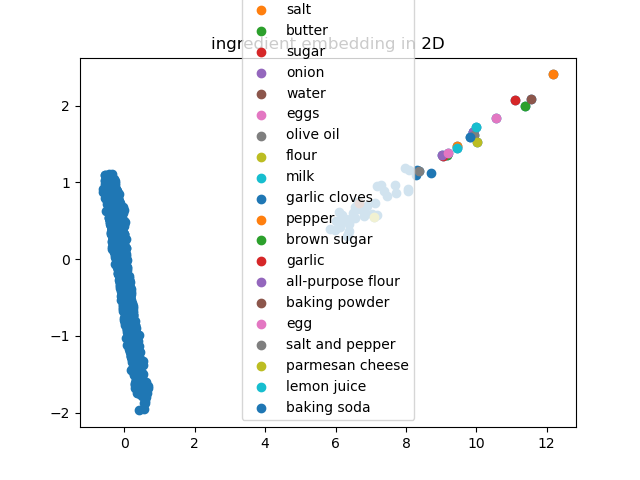
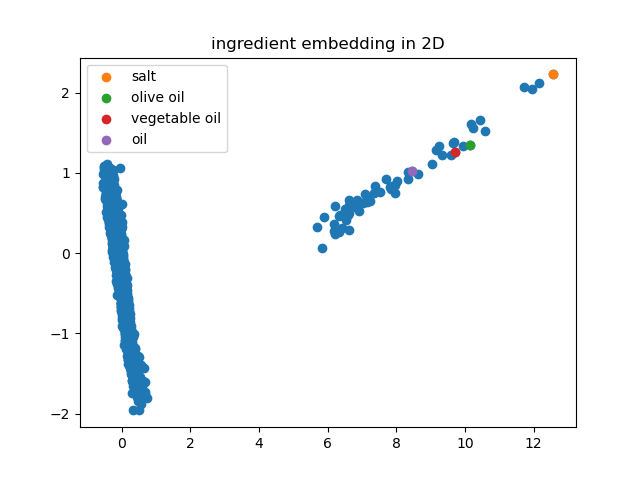
change display picture

diff --git a/src/food_connection.html b/src/food_connection.html
@@ -1,0 +1,123 @@
+<html>
+<head>
+<link rel="stylesheet" href="https://cdnjs.cloudflare.com/ajax/libs/vis/4.16.1/vis.css" type="text/css" />
+<script type="text/javascript" src="https://cdnjs.cloudflare.com/ajax/libs/vis/4.16.1/vis-network.min.js"> </script>
+<center>
+<h1></h1>
+</center>
+
+<!-- <link rel="stylesheet" href="../node_modules/vis/dist/vis.min.css" type="text/css" />
+<script type="text/javascript" src="../node_modules/vis/dist/vis.js"> </script>-->
+
+<style type="text/css">
+
+        #mynetwork {
+            width: 1200px;
+            height: 800px;
+            background-color: #ffffff;
+            border: 1px solid lightgray;
+            position: relative;
+            float: left;
+        }
+
+        
+
+        
+        #config {
+            float: left;
+            width: 400px;
+            height: 600px;
+        }
+        
+
+        
+</style>
+
+</head>
+
+<body>
+<div id = "mynetwork"></div>
+
+
+<div id = "config"></div>
+
+<script type="text/javascript">
+
+    // initialize global variables.
+    var edges;
+    var nodes;
+    var network; 
+    var container;
+    var options, data;
+
+    
+    // This method is responsible for drawing the graph, returns the drawn network
+    function drawGraph() {
+        var container = document.getElementById('mynetwork');
+        
+        
+
+        // parsing and collecting nodes and edges from the python
+        nodes = new vis.DataSet([{"id": 0, "label": "salt", "shape": "dot"}, {"id": 1, "label": "butter", "shape": "dot"}, {"id": 2, "label": "sugar", "shape": "dot"}, {"id": 3, "label": "onion", "shape": "dot"}, {"id": 4, "label": "water", "shape": "dot"}, {"id": 5, "label": "eggs", "shape": "dot"}, {"id": 6, "label": "olive oil", "shape": "dot"}, {"id": 7, "label": "flour", "shape": "dot"}, {"id": 8, "label": "milk", "shape": "dot"}, {"id": 9, "label": "garlic cloves", "shape": "dot"}, {"id": 10, "label": "pepper", "shape": "dot"}, {"id": 11, "label": "brown sugar", "shape": "dot"}, {"id": 12, "label": "garlic", "shape": "dot"}, {"id": 13, "label": "all-purpose flour", "shape": "dot"}, {"id": 14, "label": "baking powder", "shape": "dot"}, {"id": 15, "label": "egg", "shape": "dot"}, {"id": 16, "label": "salt and pepper", "shape": "dot"}, {"id": 17, "label": "parmesan cheese", "shape": "dot"}, {"id": 18, "label": "lemon juice", "shape": "dot"}, {"id": 19, "label": "baking soda", "shape": "dot"}, {"id": 20, "label": "vegetable oil", "shape": "dot"}, {"id": 21, "label": "vanilla", "shape": "dot"}, {"id": 22, "label": "black pepper", "shape": "dot"}, {"id": 23, "label": "cinnamon", "shape": "dot"}, {"id": 24, "label": "tomatoes", "shape": "dot"}, {"id": 25, "label": "sour cream", "shape": "dot"}, {"id": 26, "label": "garlic powder", "shape": "dot"}, {"id": 27, "label": "vanilla extract", "shape": "dot"}, {"id": 28, "label": "oil", "shape": "dot"}, {"id": 29, "label": "honey", "shape": "dot"}, {"id": 30, "label": "onions", "shape": "dot"}, {"id": 31, "label": "cream cheese", "shape": "dot"}, {"id": 32, "label": "garlic clove", "shape": "dot"}, {"id": 33, "label": "celery", "shape": "dot"}, {"id": 34, "label": "cheddar cheese", "shape": "dot"}, {"id": 35, "label": "unsalted butter", "shape": "dot"}, {"id": 36, "label": "soy sauce", "shape": "dot"}, {"id": 37, "label": "mayonnaise", "shape": "dot"}, {"id": 38, "label": "paprika", "shape": "dot"}, {"id": 39, "label": "chicken broth", "shape": "dot"}, {"id": 40, "label": "worcestershire sauce", "shape": "dot"}, {"id": 41, "label": "extra virgin olive oil", "shape": "dot"}, {"id": 42, "label": "fresh parsley", "shape": "dot"}, {"id": 43, "label": "cornstarch", "shape": "dot"}, {"id": 45, "label": "carrots", "shape": "dot"}, {"id": 47, "label": "chili powder", "shape": "dot"}, {"id": 49, "label": "ground cinnamon", "shape": "dot"}, {"id": 50, "label": "carrot", "shape": "dot"}, {"id": 51, "label": "potatoes", "shape": "dot"}, {"id": 52, "label": "nutmeg", "shape": "dot"}, {"id": 53, "label": "cayenne pepper", "shape": "dot"}, {"id": 54, "label": "granulated sugar", "shape": "dot"}, {"id": 55, "label": "ground cumin", "shape": "dot"}, {"id": 58, "label": "red onion", "shape": "dot"}, {"id": 59, "label": "walnuts", "shape": "dot"}, {"id": 60, "label": "pecans", "shape": "dot"}, {"id": 61, "label": "dijon mustard", "shape": "dot"}, {"id": 62, "label": "green onion", "shape": "dot"}, {"id": 63, "label": "kosher salt", "shape": "dot"}, {"id": 64, "label": "powdered sugar", "shape": "dot"}, {"id": 65, "label": "fresh lemon juice", "shape": "dot"}, {"id": 66, "label": "heavy cream", "shape": "dot"}, {"id": 68, "label": "mozzarella cheese", "shape": "dot"}, {"id": 71, "label": "zucchini", "shape": "dot"}, {"id": 72, "label": "raisins", "shape": "dot"}, {"id": 73, "label": "red bell pepper", "shape": "dot"}, {"id": 75, "label": "fresh cilantro", "shape": "dot"}, {"id": 76, "label": "chicken stock", "shape": "dot"}, {"id": 80, "label": "fresh ginger", "shape": "dot"}, {"id": 81, "label": "cumin", "shape": "dot"}, {"id": 82, "label": "oregano", "shape": "dot"}, {"id": 83, "label": "boneless skinless chicken breasts", "shape": "dot"}, {"id": 85, "label": "ketchup", "shape": "dot"}, {"id": 87, "label": "buttermilk", "shape": "dot"}, {"id": 89, "label": "cilantro", "shape": "dot"}, {"id": 91, "label": "fresh basil", "shape": "dot"}, {"id": 93, "label": "onion powder", "shape": "dot"}, {"id": 94, "label": "dried thyme", "shape": "dot"}, {"id": 95, "label": "diced tomatoes", "shape": "dot"}, {"id": 96, "label": "vinegar", "shape": "dot"}, {"id": 97, "label": "green bell pepper", "shape": "dot"}, {"id": 99, "label": "dried basil", "shape": "dot"}, {"id": 100, "label": "bay leaf", "shape": "dot"}, {"id": 102, "label": "red wine vinegar", "shape": "dot"}, {"id": 105, "label": "confectioners\u0027 sugar", "shape": "dot"}, {"id": 107, "label": "dry white wine", "shape": "dot"}, {"id": 108, "label": "salt \u0026 freshly ground black pepper", "shape": "dot"}, {"id": 110, "label": "light brown sugar", "shape": "dot"}, {"id": 112, "label": "thyme", "shape": "dot"}, {"id": 113, "label": "curry powder", "shape": "dot"}, {"id": 115, "label": "ground nutmeg", "shape": "dot"}, {"id": 117, "label": "white wine", "shape": "dot"}, {"id": 123, "label": "shortening", "shape": "dot"}, {"id": 130, "label": "egg yolks", "shape": "dot"}, {"id": 131, "label": "semi-sweet chocolate chips", "shape": "dot"}, {"id": 133, "label": "lean ground beef", "shape": "dot"}, {"id": 140, "label": "nuts", "shape": "dot"}, {"id": 145, "label": "ground cloves", "shape": "dot"}, {"id": 150, "label": "chocolate chips", "shape": "dot"}, {"id": 172, "label": "almond extract", "shape": "dot"}]);
+        edges = new vis.DataSet([{"from": 53, "to": 0, "width": 7.01571242048723}, {"from": 6, "to": 58, "width": 7.013915474810528}, {"from": 5, "to": 87, "width": 7.01301578963963}, {"from": 3, "to": 28, "width": 7.01211529430638}, {"from": 47, "to": 55, "width": 7.011213987350367}, {"from": 5, "to": 49, "width": 7.011213987350367}, {"from": 27, "to": 14, "width": 7.010311867307229}, {"from": 0, "to": 47, "width": 7.00850518208228}, {"from": 8, "to": 16, "width": 7.005789019253503}, {"from": 8, "to": 4, "width": 7.005789019253503}, {"from": 26, "to": 22, "width": 7.004881989712859}, {"from": 31, "to": 1, "width": 7.004881989712859}, {"from": 13, "to": 64, "width": 7.003065458786462}, {"from": 4, "to": 21, "width": 7.001245622069476}, {"from": 6, "to": 82, "width": 7.00033446027523}, {"from": 4, "to": 26, "width": 6.9975959829819265}, {"from": 45, "to": 3, "width": 6.9957661563048505}, {"from": 7, "to": 27, "width": 6.9957661563048505}, {"from": 6, "to": 63, "width": 6.993932975223189}, {"from": 12, "to": 24, "width": 6.9930151229329605}, {"from": 3, "to": 99, "width": 6.990256500493881}, {"from": 6, "to": 38, "width": 6.990256500493881}, {"from": 62, "to": 0, "width": 6.98933526597456}, {"from": 9, "to": 81, "width": 6.9874902470009905}, {"from": 12, "to": 2, "width": 6.9874902470009905}, {"from": 33, "to": 16, "width": 6.985641817639208}, {"from": 9, "to": 53, "width": 6.985641817639208}, {"from": 6, "to": 33, "width": 6.984716320118266}, {"from": 0, "to": 140, "width": 6.984716320118266}, {"from": 3, "to": 73, "width": 6.982862751468942}, {"from": 24, "to": 3, "width": 6.982862751468942}, {"from": 7, "to": 60, "width": 6.982862751468942}, {"from": 32, "to": 6, "width": 6.98100574072173}, {"from": 12, "to": 3, "width": 6.97914527506881}, {"from": 1, "to": 29, "width": 6.97914527506881}, {"from": 45, "to": 4, "width": 6.97914527506881}, {"from": 3, "to": 13, "width": 6.97914527506881}, {"from": 1, "to": 43, "width": 6.97914527506881}, {"from": 3, "to": 36, "width": 6.9782137426306985}, {"from": 9, "to": 38, "width": 6.97354301952014}, {"from": 52, "to": 0, "width": 6.970730078143525}, {"from": 133, "to": 3, "width": 6.970730078143525}, {"from": 23, "to": 2, "width": 6.970730078143525}, {"from": 7, "to": 17, "width": 6.96979066990159}, {"from": 6, "to": 5, "width": 6.967909201801884}, {"from": 5, "to": 18, "width": 6.966967138613983}, {"from": 2, "to": 72, "width": 6.966024187106113}, {"from": 3, "to": 20, "width": 6.962243464266207}, {"from": 1, "to": 131, "width": 6.959398512133975}, {"from": 6, "to": 76, "width": 6.959398512133975}, {"from": 0, "to": 55, "width": 6.957497370876951}, {"from": 19, "to": 49, "width": 6.954638864880987}, {"from": 85, "to": 40, "width": 6.954638864880987}, {"from": 1, "to": 32, "width": 6.952728644624869}, {"from": 14, "to": 52, "width": 6.951772164398911}, {"from": 96, "to": 0, "width": 6.950814768442584}, {"from": 2, "to": 105, "width": 6.950814768442584}, {"from": 6, "to": 107, "width": 6.949856455000773}, {"from": 4, "to": 29, "width": 6.949856455000773}, {"from": 50, "to": 33, "width": 6.948897222313312}, {"from": 9, "to": 76, "width": 6.947937068614969}, {"from": 25, "to": 1, "width": 6.942156705699469}, {"from": 34, "to": 0, "width": 6.942156705699469}, {"from": 0, "to": 115, "width": 6.939253946041508}, {"from": 7, "to": 3, "width": 6.93828448401696}, {"from": 30, "to": 16, "width": 6.934397209928558}, {"from": 45, "to": 33, "width": 6.933423025730715}, {"from": 54, "to": 21, "width": 6.933423025730715}, {"from": 13, "to": 59, "width": 6.933423025730715}, {"from": 18, "to": 2, "width": 6.932447891572509}, {"from": 19, "to": 52, "width": 6.92951677076365}, {"from": 30, "to": 1, "width": 6.92951677076365}, {"from": 31, "to": 64, "width": 6.92951677076365}, {"from": 82, "to": 0, "width": 6.92461239604856}, {"from": 93, "to": 26, "width": 6.923628628138427}, {"from": 19, "to": 64, "width": 6.923628628138427}, {"from": 2, "to": 140, "width": 6.922643891475888}, {"from": 28, "to": 2, "width": 6.921658184151129}, {"from": 9, "to": 36, "width": 6.920671504248683}, {"from": 10, "to": 8, "width": 6.920671504248683}, {"from": 3, "to": 112, "width": 6.920671504248683}, {"from": 9, "to": 75, "width": 6.918695219020472}, {"from": 15, "to": 10, "width": 6.9167150203536085}, {"from": 36, "to": 4, "width": 6.914730892718563}, {"from": 2, "to": 172, "width": 6.912742820493176}, {"from": 19, "to": 72, "width": 6.90975328164481}, {"from": 20, "to": 12, "width": 6.90975328164481}, {"from": 102, "to": 0, "width": 6.906754778648554}, {"from": 49, "to": 1, "width": 6.905753276311464}, {"from": 21, "to": 13, "width": 6.904750769961838}, {"from": 110, "to": 0, "width": 6.904750769961838}, {"from": 5, "to": 34, "width": 6.902742737158593}, {"from": 6, "to": 26, "width": 6.901737206656574}, {"from": 9, "to": 95, "width": 6.901737206656574}, {"from": 20, "to": 1, "width": 6.900730664045173}, {"from": 1, "to": 33, "width": 6.900730664045173}, {"from": 6, "to": 45, "width": 6.899723107284872}, {"from": 19, "to": 60, "width": 6.8966943316227125}, {"from": 6, "to": 7, "width": 6.8966943316227125}, {"from": 13, "to": 60, "width": 6.895682697747868}, {"from": 33, "to": 9, "width": 6.895682697747868}, {"from": 36, "to": 12, "width": 6.894670039433482}, {"from": 19, "to": 20, "width": 6.894670039433482}, {"from": 0, "to": 68, "width": 6.892641641172089}, {"from": 11, "to": 2, "width": 6.892641641172089}, {"from": 8, "to": 13, "width": 6.889591308354466}, {"from": 80, "to": 0, "width": 6.8885724595653635}, {"from": 5, "to": 140, "width": 6.8885724595653635}, {"from": 21, "to": 64, "width": 6.885509670034818}, {"from": 23, "to": 8, "width": 6.885509670034818}, {"from": 11, "to": 59, "width": 6.885509670034818}, {"from": 21, "to": 8, "width": 6.884486652042782}, {"from": 4, "to": 13, "width": 6.883462586413092}, {"from": 36, "to": 43, "width": 6.881411303642535}, {"from": 23, "to": 11, "width": 6.877296071497429}, {"from": 54, "to": 1, "width": 6.876264611890766}, {"from": 49, "to": 145, "width": 6.876264611890766}, {"from": 0, "to": 75, "width": 6.876264611890766}, {"from": 18, "to": 6, "width": 6.873163834212518}, {"from": 25, "to": 34, "width": 6.872128101338986}, {"from": 97, "to": 0, "width": 6.871091294610546}, {"from": 4, "to": 28, "width": 6.871091294610546}, {"from": 83, "to": 0, "width": 6.871091294610546}, {"from": 51, "to": 16, "width": 6.870053411798126}, {"from": 8, "to": 11, "width": 6.870053411798126}, {"from": 0, "to": 123, "width": 6.870053411798126}, {"from": 23, "to": 72, "width": 6.8690144506657065}, {"from": 133, "to": 0, "width": 6.8690144506657065}, {"from": 13, "to": 87, "width": 6.8679744089702925}, {"from": 37, "to": 18, "width": 6.866933284461882}, {"from": 3, "to": 75, "width": 6.866933284461882}, {"from": 12, "to": 42, "width": 6.8658910748834385}, {"from": 18, "to": 1, "width": 6.8658910748834385}, {"from": 1, "to": 140, "width": 6.863803391452954}, {"from": 9, "to": 91, "width": 6.862757913051401}, {"from": 9, "to": 82, "width": 6.859614903654202}, {"from": 95, "to": 0, "width": 6.858565034791365}, {"from": 5, "to": 72, "width": 6.858565034791365}, {"from": 0, "to": 93, "width": 6.85751406254539}, {"from": 94, "to": 0, "width": 6.856461984594587}, {"from": 17, "to": 1, "width": 6.853299093186078}, {"from": 0, "to": 45, "width": 6.853299093186078}, {"from": 14, "to": 60, "width": 6.851184927493743}, {"from": 32, "to": 16, "width": 6.851184927493743}, {"from": 39, "to": 10, "width": 6.851184927493743}, {"from": 6, "to": 53, "width": 6.849066282633458}, {"from": 3, "to": 71, "width": 6.848005274576363}, {"from": 1, "to": 72, "width": 6.84587987526405}, {"from": 2, "to": 130, "width": 6.84587987526405}, {"from": 4, "to": 25, "width": 6.844815479208263}, {"from": 40, "to": 10, "width": 6.843749949006225}, {"from": 21, "to": 60, "width": 6.843749949006225}, {"from": 45, "to": 9, "width": 6.839476438228843}, {"from": 0, "to": 131, "width": 6.839476438228843}, {"from": 9, "to": 40, "width": 6.838405200847344}, {"from": 2, "to": 66, "width": 6.838405200847344}, {"from": 45, "to": 10, "width": 6.835184586147301}, {"from": 0, "to": 41, "width": 6.834108738813838}, {"from": 9, "to": 41, "width": 6.831953565565855}, {"from": 3, "to": 89, "width": 6.8308742346461795}, {"from": 6, "to": 50, "width": 6.829793737512425}, {"from": 1, "to": 76, "width": 6.829793737512425}, {"from": 35, "to": 15, "width": 6.827629234502852}, {"from": 9, "to": 100, "width": 6.826545223556594}, {"from": 6, "to": 61, "width": 6.826545223556594}, {"from": 47, "to": 81, "width": 6.824373670043086}, {"from": 0, "to": 150, "width": 6.824373670043086}, {"from": 19, "to": 4, "width": 6.823286122355687}, {"from": 51, "to": 8, "width": 6.823286122355687}, {"from": 10, "to": 26, "width": 6.823286122355687}, {"from": 50, "to": 3, "width": 6.822197390620491}, {"from": 3, "to": 43, "width": 6.822197390620491}, {"from": 6, "to": 108, "width": 6.822197390620491}, {"from": 6, "to": 47, "width": 6.821107472256465}, {"from": 1, "to": 150, "width": 6.82001636467413}, {"from": 30, "to": 24, "width": 6.82001636467413}, {"from": 8, "to": 52, "width": 6.82001636467413}, {"from": 15, "to": 20, "width": 6.818924065275521}, {"from": 21, "to": 1, "width": 6.81783057145415}, {"from": 11, "to": 52, "width": 6.81783057145415}, {"from": 6, "to": 68, "width": 6.815639990074331}, {"from": 6, "to": 117, "width": 6.815639990074331}, {"from": 113, "to": 0, "width": 6.812345094177479}, {"from": 8, "to": 3, "width": 6.811244378601294}, {"from": 17, "to": 6, "width": 6.811244378601294}, {"from": 76, "to": 0, "width": 6.810142450115136}, {"from": 1, "to": 87, "width": 6.810142450115136}, {"from": 0, "to": 65, "width": 6.810142450115136}, {"from": 4, "to": 27, "width": 6.807934943699926}, {"from": 7, "to": 18, "width": 6.807934943699926}, {"from": 38, "to": 26, "width": 6.805722553416985}, {"from": 3, "to": 113, "width": 6.804614520062624}, {"from": 22, "to": 6, "width": 6.803505257608338}]);
+
+        // adding nodes and edges to the graph
+        data = {nodes: nodes, edges: edges};
+
+        var options = {
+    "configure": {
+        "enabled": true,
+        "filter": [
+            "physics"
+        ]
+    },
+    "edges": {
+        "color": {
+            "inherit": true
+        },
+        "smooth": {
+            "enabled": false,
+            "type": "continuous"
+        }
+    },
+    "interaction": {
+        "dragNodes": true,
+        "hideEdgesOnDrag": false,
+        "hideNodesOnDrag": false
+    },
+    "physics": {
+        "enabled": true,
+        "stabilization": {
+            "enabled": true,
+            "fit": true,
+            "iterations": 1000,
+            "onlyDynamicEdges": false,
+            "updateInterval": 50
+        }
+    }
+};
+        
+        
+
+        
+        // if this network requires displaying the configure window,
+        // put it in its div
+        options.configure["container"] = document.getElementById("config");
+        
+
+        network = new vis.Network(container, data, options);
+	 
+        
+
+
+        
+
+        return network;
+
+    }
+
+    drawGraph();
+
+</script>
+</body>
+</html>

diff --git a/src/draw_graph.py b/src/draw_graph.py
@@ -36,13 +36,9 @@ def get_connection_weight(i, j):
 index2food = read_dict_from_json('data/h_index2food.json')
 # all_idx_list, all_food_list = list(index2food.keys()), list(index2food.values())
 all_connection_dict = read_dict_from_json('data/sorted_all_connection_dict.json')
-print('1')
 all_connection_list = list(all_connection_dict.keys())
-print('2')
-idx_connection_list = [string2tuple(pair) for pair in all_connection_list[:100]]
-print('3')
+idx_connection_list = [string2tuple(pair) for pair in all_connection_list[500:700]]
 idx_connection_list = [get_connection_weight(int(x1), int(x2)) for x1, x2 in idx_connection_list]
-print('4')
 # print(idx_connection_list)
 
 
@@ -63,13 +59,6 @@ import numpy as np
 net = Network(height="800px", width="1200px")
 net.add_nodes(all_idx_list, label=all_food_list)
 net.add_edges(idx_connection_list)
+net.show_buttons(filter_=['physics'])
 
-
-# net.add_nodes([1, 2], label=['Alex', 'Carthy'])
-# net.add_nodes([3, 4, 5, 6], 
-#               label=['Michael', 'Ben', 'Oliver', 'Olivia'],
-#               color=['#3da831', '#9a31a8', '#3155a8', '#eb4034'])
-
-# net.add_edge(1, 5)
-# net.add_edges([(2, 5, 10), (3, 4, 2), (1, 6), (2, 6), (3, 5)])
-net.show('edges_with_weights.html')
+net.show('food_connection.html')

diff --git a/src/model.py b/src/model.py
@@ -105,7 +105,12 @@ print(emb2d.shape)
 plt.title("ingredient embedding in 2D")
 plt.scatter(emb2d[:,0],emb2d[:,1])
 
-for idx, ing in enumerate(list(index2food.values())[:20]):
+show_list = [0, 6, 20, 28]
+
+# for idx, ing in enumerate(list(index2food.values())[show_list]):
+
+for idx in show_list:
+    ing = index2food[str(idx)]
     plt.scatter(emb2d[int(idx), 0],emb2d[int(idx), 1], label=ing)
     plt.legend()
 
